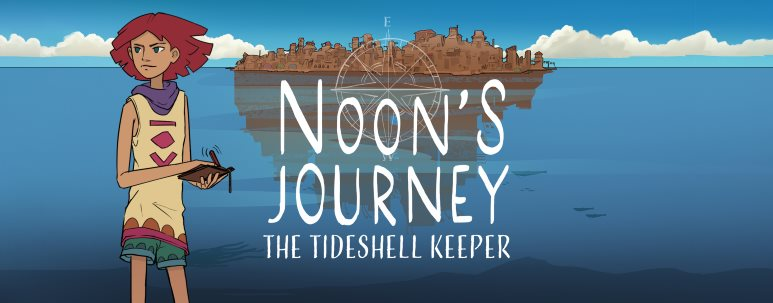
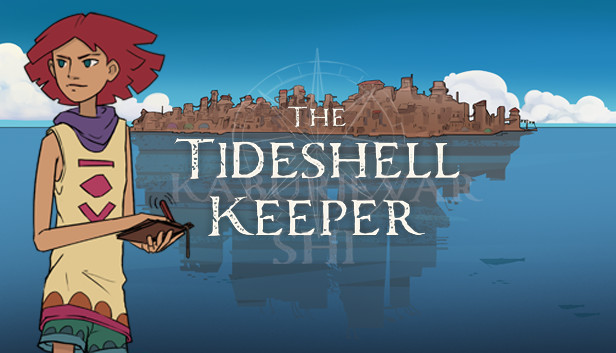
rename to tideshell keeper

diff --git a/assets/main.scss b/assets/main.scss
@@ -3,3 +3,8 @@
 ---
 
 @import "mailchimp-form", "main";
+
+.flex-center {
+  display: flex;
+  justify-content: center;
+}

diff --git a/pages/games.md b/pages/games.md
@@ -4,16 +4,16 @@ title: Games
 permalink: /games/
 ---
 
-We're currently focusing on the game [Noon's Journey]({{ site.baseurl }}{% link pages/games/noons_journey.md %}), but have a few other projects in a relatively dormant state.
+We're currently focusing on the game [The Tideshell Keeper]({{ site.baseurl }}{% link pages/games/the_tideshell_keeper.md %}), but have a few other projects in a relatively dormant state.
 
 <div>
-  <a href="{{ site.baseurl }}{% link pages/games/noons_journey.md %}">
+  <a href="{{ site.baseurl }}{% link pages/games/the_tideshell_keeper.md %}">
     <img alt="Noon's Journey" src="/assets/images/games/noon_tile.png" />
   </a>
 </div>
 
 <!-- <div> -->
-<!--   <a href="{{ site.baseurl }}{% link pages/games/noons_journey.md %}"> -->
+<!--   <a href="{{ site.baseurl }}{% link pages/games/the_tideshell_keeper.md %}"> -->
 <!--     <img alt="Noon's Journey" src="/assets/images/games/noon_tile.png" /> -->
 <!--   </a> -->
 <!-- </div> -->

diff --git a/pages/team.md b/pages/team.md
@@ -4,7 +4,7 @@ title: Team
 permalink: /team/
 ---
 
-We're a partially distributed team, with an office in Copenhagen ([Spilhuset](http://spilhuset.com)). We all work on our game [Noon's Journey]({{ site.baseurl }}{% link pages/games/noons_journey.md %}), some full-time and some part-time.
+We're a partially distributed team, with an office in Copenhagen ([Spilhuset](http://spilhuset.com)). We all work on our game [The Tideshell Keeper]({{ site.baseurl }}{% link pages/games/the_tideshell_keeper.md %}), some full-time and some part-time.
 
 There are more members of the team who'll be added to this page shortly.
 

diff --git a/pages/index.md b/pages/index.md
@@ -6,9 +6,9 @@ permalink: /
 ## We're a small game development studio in Copenhagen, making narrative games and interactive books.
 
 
-<div>
-  <a href="{{ site.baseurl }}{% link pages/games/noons_journey.md %}">
-    <img alt="Noon's Journey" src="/assets/images/games/noon_tile.png" />
+<div class="flex-center">
+  <a href="{{ site.baseurl }}{% link pages/games/the_tideshell_keeper.md %}">
+    <img alt="The Tideshell Keeper" src="/assets/images/games/noon_tile.png" />
   </a>
 </div>
 

diff --git a/pages/games/the_tideshell_keeper.md b/pages/games/the_tideshell_keeper.md
@@ -1,9 +1,11 @@
 ---
 layout: game
-permalink: /games/noons_journey/
-title: Noon's Journey
+permalink: /games/the_tideshell_keeper/
+title: The Tideshell Keeper
 cover_image: /assets/images/games/noon_cover.jpg
 release: TBA
+redirect_from:
+    - /games/noons_journey
 vimeo_id: 318603748
 screenshots_dir: /assets/images/games/noons_journey/
 screenshots:
